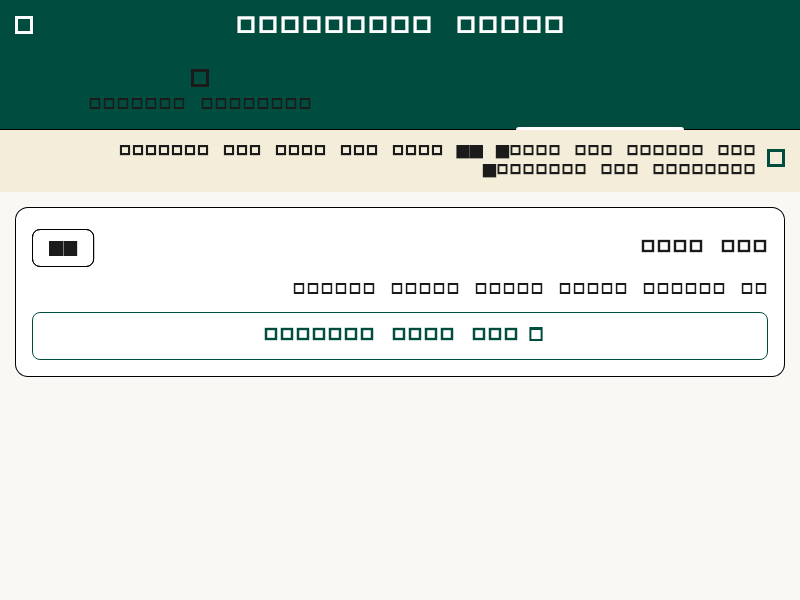
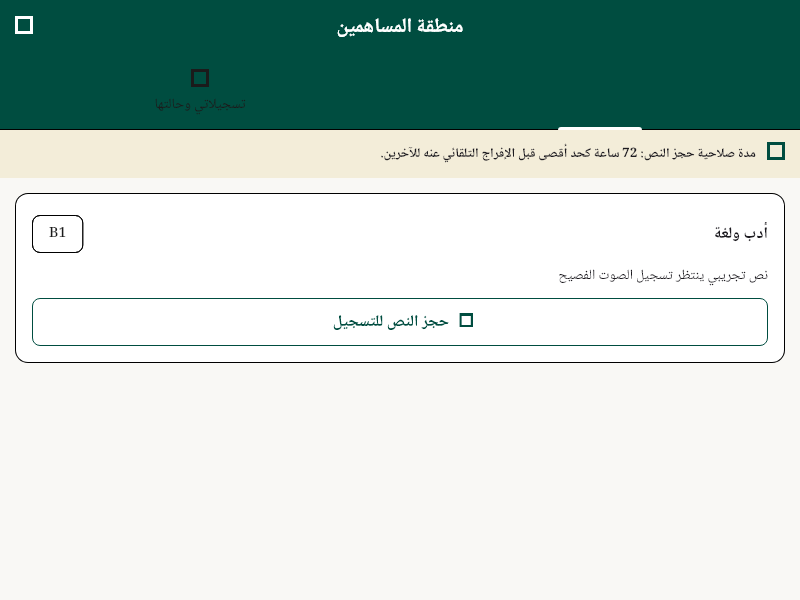
test(24): regenerate golden flow screenshots with legible Arabic typography and update documentation

diff --git a/mobile/test/golden_flows_test.dart b/mobile/test/golden_flows_test.dart
@@ -1,5 +1,7 @@
 import 'dart:io';
+import 'dart:typed_data';
 import 'package:flutter/material.dart';
+import 'package:flutter/services.dart';
 import 'package:flutter_localizations/flutter_localizations.dart';
 import 'package:flutter_riverpod/flutter_riverpod.dart';
 import 'package:flutter_test/flutter_test.dart';
@@ -43,6 +45,17 @@ Widget testableWidget(Widget child) {
 }
 
 void main() {
+  setUpAll(() async {
+    TestWidgetsFlutterBinding.ensureInitialized();
+    final fontLoader = FontLoader('NotoNaskhArabic');
+    final fontFile = File('assets/fonts/NotoNaskhArabic.ttf');
+    if (fontFile.existsSync()) {
+      final fontBytes = fontFile.readAsBytesSync();
+      fontLoader.addFont(Future.value(ByteData.view(fontBytes.buffer)));
+      await fontLoader.load();
+    }
+  });
+
   testWidgets('Capture Flow 1 - Contributor Screen', (WidgetTester tester) async {
     await tester.pumpWidget(testableWidget(const ContributorScreen()));
     await tester.pump();

diff --git a/mobile/docs/FLOWS.md b/mobile/docs/FLOWS.md
@@ -2,6 +2,15 @@
 
 منصة **اصغِ** (Crowdsourced Arabic Listening Practice)
 
+> [!NOTE]
+> **ملاحظة توثيقية حول اللقطات المرفقة (Visual Evidence & Reproduction)**:
+> الصور التوضيحية المرفقة في هذا المستند (`flow_1.png` إلى `flow_5.png`) هي لقطات فحص بصري (Golden Test Renders) ناتجة عن تشغيل اختبار الواجهات الشامل في Flutter (`mobile/test/golden_flows_test.dart`) باستخدام خط `Noto Naskh Arabic` المدمج في المشروع، وليست لقطات مأخوذة من جهاز فعلي (Device Captures).
+> لإعادة توليد هذه اللقطات بدقة وتأكيد سلامة رسم الخط العربي وتشكيله:
+> ```bash
+> cd mobile
+> flutter test test/golden_flows_test.dart --update-goldens
+> ```
+
 يوثق هذا المستند التدفقات الخمسة المعتمدة في النظام وفقاً لمخططات التتابع الرسمية (`h_seq1` حتى `h_seq5`)، مع بيان عناصر الواجهة البرمجية (Widgets)، ونقاط النهاية (Endpoints)، وحالات الانتقال.
 
 ---
